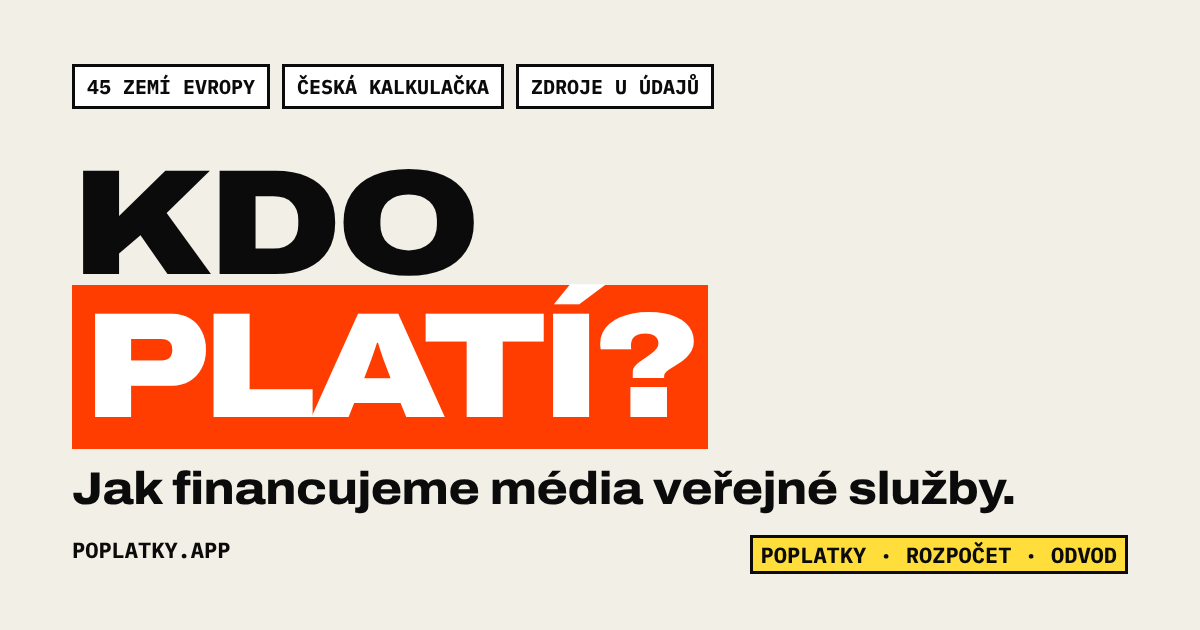
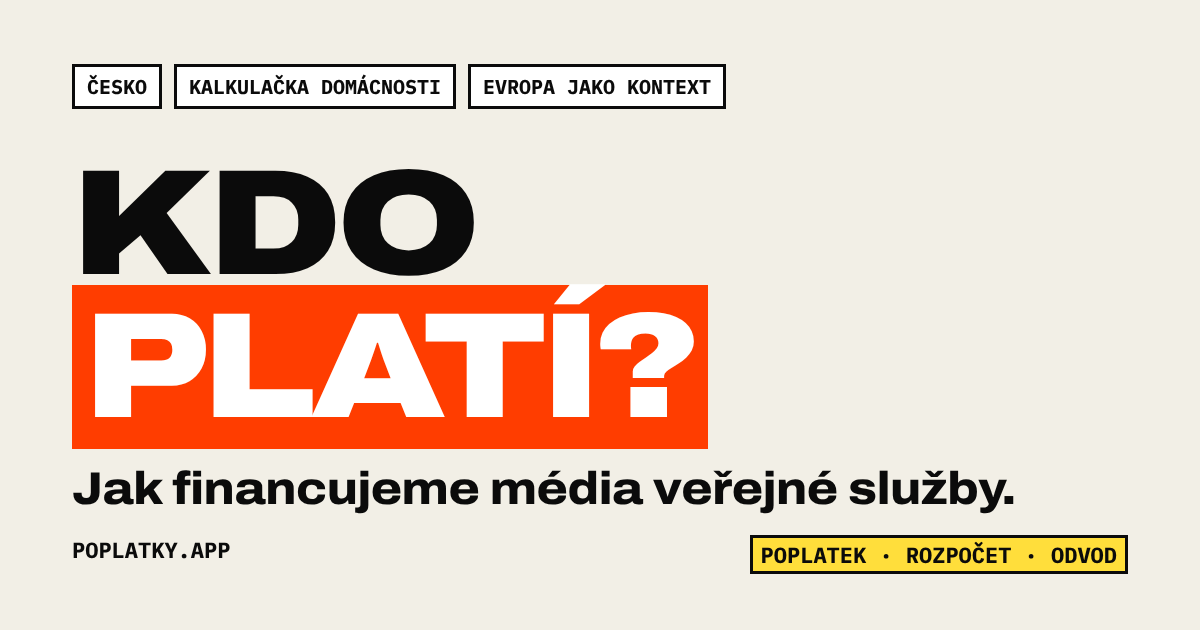
Premisa: úvod začíná českou otázkou, třetí vstup, Evropa jako kontext, propojení kapitol, O projektu a přiznání inspirace

Changed region(s): [[0.0617, 0.0905, 0.6167, 0.181], [0.6783, 0.8746, 0.74, 0.9048]]

diff --git a/index.html b/index.html
@@ -6,7 +6,7 @@
     <meta name="color-scheme" content="light" />
     <link rel="icon" href="data:," />
     <title>Kdo platí? Jak financujeme média veřejné služby</title>
-    <meta name="description" content="Od televizních poplatků po státní rozpočet. Prozkoumejte 45 evropských zemí, spočítejte si české alternativy a zjistěte, co jednotlivé modely znamenají pro nezávislost médií." />
+    <meta name="description" content="Co by se stalo, kdyby Česko zrušilo televizní a rozhlasové poplatky? Porovnejte alternativy, spočítejte dopad na vlastní domácnost, veřejné finance a nezávislost médií." />
     <link rel="canonical" href="https://poplatky.app/" />
     <meta name="robots" content="index, follow" />
     <meta name="author" content="Matesola" />
@@ -15,7 +15,7 @@
     <meta property="og:locale" content="cs_CZ" />
     <meta property="og:site_name" content="Kdo platí?" />
     <meta property="og:title" content="Kdo platí? Jak financujeme média veřejné služby" />
-    <meta property="og:description" content="Od televizních poplatků po státní rozpočet. Prozkoumejte 45 evropských zemí, spočítejte si české alternativy a zjistěte, co jednotlivé modely znamenají pro nezávislost médií." />
+    <meta property="og:description" content="Co by se stalo, kdyby Česko zrušilo televizní a rozhlasové poplatky? Porovnejte alternativy, spočítejte jejich dopad na vlastní domácnost a prozkoumejte, co znamenají pro veřejné finance a nezávislost médií. Podívejte se také, jak podobné otázky řeší Evropa." />
     <meta property="og:url" content="https://poplatky.app/" />
     <meta property="og:image" content="https://poplatky.app/og.png" />
     <meta property="og:image:width" content="1200" />
@@ -23,11 +23,11 @@
     <meta property="og:image:alt" content="Kdo platí? Jak financujeme média veřejné služby. 45 evropských zemí a česká kalkulačka." />
     <meta name="twitter:card" content="summary_large_image" />
     <meta name="twitter:title" content="Kdo platí? Jak financujeme média veřejné služby" />
-    <meta name="twitter:description" content="Od televizních poplatků po státní rozpočet. Prozkoumejte 45 evropských zemí, spočítejte si české alternativy a zjistěte, co jednotlivé modely znamenají pro nezávislost médií." />
+    <meta name="twitter:description" content="Co by se stalo, kdyby Česko zrušilo televizní a rozhlasové poplatky? Porovnejte alternativy, spočítejte jejich dopad na vlastní domácnost a prozkoumejte, co znamenají pro veřejné finance a nezávislost médií. Podívejte se také, jak podobné otázky řeší Evropa." />
     <meta name="twitter:image" content="https://poplatky.app/og.png" />
     <link rel="manifest" href="site.webmanifest" />
     <script>/* Výchozí je světlý režim; tmavý jen po výslovné volbě uživatele. */ try { if (localStorage.getItem("pzv-theme") === "dark") document.documentElement.setAttribute("data-theme", "dark"); } catch (e) {}</script>
-    <script type="application/ld+json">{"@context":"https://schema.org","@type":"WebSite","name":"Kdo platí?","alternateName":"Kdo platí? Jak financujeme média veřejné služby","url":"https://poplatky.app/","inLanguage":"cs","description":"Od televizních poplatků po státní rozpočet. Prozkoumejte 45 evropských zemí, spočítejte si české alternativy a zjistěte, co jednotlivé modely znamenají pro nezávislost médií.","author":{"@type":"Person","name":"Matesola"},"dateModified":"2026-10-26"}</script>
+    <script type="application/ld+json">{"@context":"https://schema.org","@type":"WebSite","name":"Kdo platí?","alternateName":"Kdo platí? Jak financujeme média veřejné služby","url":"https://poplatky.app/","inLanguage":"cs","description":"Co by se stalo, kdyby Česko zrušilo televizní a rozhlasové poplatky? Porovnejte alternativy, spočítejte jejich dopad na vlastní domácnost a prozkoumejte, co znamenají pro veřejné finance a nezávislost médií. Podívejte se také, jak podobné otázky řeší Evropa.","author":{"@type":"Person","name":"Matesola"},"dateModified":"2026-10-26"}</script>
     <link rel="preconnect" href="https://fonts.googleapis.com" />
     <link rel="preconnect" href="https://fonts.gstatic.com" crossorigin />
     <link href="https://fonts.googleapis.com/css2?family=Archivo:wdth,wght@100..125,400..900&family=IBM+Plex+Mono:wght@400;500;600;700&display=swap" rel="stylesheet" />
@@ -535,20 +535,33 @@
       @media (max-width: 520px) { .trust dl { grid-template-columns: 1fr; gap: 2px; } .trust dd { margin-bottom: 6px; } }
       .map-note { margin: 10px 0 0; max-width: 900px; }
       .stat-src { font: 600 11px "IBM Plex Mono", monospace; text-transform: uppercase; color: var(--ink); white-space: nowrap; display: inline-block; padding: 2px 0; }
+      /* Premisa: třetí vstup, evropský úvod, souvislosti, O projektu */
+      .path-cz { grid-column: 1 / -1; box-shadow: var(--sh-s); padding: 12px 18px; display: flex; flex-wrap: wrap; align-items: baseline; gap: 4px 16px; }
+      .path-cz .path-t { font-size: clamp(18px, 2vw, 22px); }
+      .path-cz .path-d { font-size: 14.5px; }
+      .eu-intro { border-left: 6px solid var(--line); padding: 4px 0 4px 16px; margin: 0 0 22px; max-width: 860px; }
+      .eu-intro p { margin: 0; font-size: 18px; line-height: 1.5; }
+      .eu-stats { margin: 0 0 28px; }
+      .ctx-link { font-size: 15px; line-height: 1.5; border: 2px dashed var(--line-soft); padding: 10px 14px; margin: 0 0 22px; max-width: 900px; }
+      .prose .ctx-link { margin-top: 6px; }
+      .about { border: var(--bw) solid var(--line); background: var(--card); padding: 16px 18px; margin: 0 0 22px; max-width: 900px; }
+      .about h3 { margin: 0 0 8px; font-weight: 900; font-stretch: 112%; font-size: 20px; text-transform: uppercase; }
+      .about p { margin: 0 0 10px; font-size: 15.5px; line-height: 1.55; }
+      @media (max-width: 700px) { .path-cz { display: grid; } }
     </style>
   </head>
   <body>
     <header class="hero">
       <div class="wrap">
         <div class="hero-meta">
-          <span>Přehled</span>
-          <span><span data-n-countries>45</span> zemí Evropy</span>
-          <span>Evropská data k <b>24. 10. 2026</b></span>
+          <span>Česko</span>
+          <span>Stav legislativy k <b><time datetime="2026-10-26" data-cfg="legalDateLabel">26. 10. 2026</time></b></span>
+          <span>Evropa jako kontext</span>
           <span>Zdroj u každého údaje</span>
         </div>
         <h1>Kdo <span class="hl">platí?</span></h1>
         <p class="hero-sub">Jak financujeme média veřejné služby.</p>
-        <p class="lede">Od televizních poplatků po státní rozpočet. Prozkoumejte <span data-n-countries>45</span> evropských zemí, spočítejte si české alternativy a zjistěte, co jednotlivé modely znamenají pro nezávislost médií.</p>
+        <p class="lede">Co by se stalo, kdyby Česko zrušilo televizní a rozhlasové poplatky? Porovnejte alternativy, spočítejte jejich dopad na vlastní domácnost a prozkoumejte, co znamenají pro veřejné finance a nezávislost médií. Podívejte se také, jak podobné otázky řeší Evropa.</p>
         <section class="now-cz" aria-labelledby="nowTitle">
           <div class="now-h"><h2 id="nowTitle">Aktuální Česko</h2><span class="now-date">ověřeno k <time datetime="2026-10-26" data-cfg="legalDateLabel">26. 10. 2026</time></span></div>
           <div class="now-grid">
@@ -565,17 +578,12 @@
         </section>
 
         <nav class="paths" aria-label="Hlavní cesty">
-          <a class="path path-me" href="#kalkulacka"><span class="path-k">Pro vaši domácnost</span><span class="path-t">Kolik bych platil já?</span><span class="path-d">Dnešní poplatek, financování z rozpočtu a odvod z příjmu. Stačí zadat příjmy.</span></a>
-          <a class="path path-eu" href="#mapa"><span class="path-k"><span data-n-countries>45</span> zemí</span><span class="path-t">Jak platí Evropa?</span><span class="path-d">Mapa modelů financování, částky a porovnání zemí.</span></a>
+          <a class="path path-me" href="#kalkulacka"><span class="path-k">Pro vaši domácnost</span><span class="path-t">Kolik bych platil já?</span><span class="path-d">Porovnejte současné poplatky s financováním ze státního rozpočtu a účelovým odvodem z příjmu.</span></a>
+          <a class="path path-eu" href="#mapa"><span class="path-k"><span data-n-countries>45</span> zemí</span><span class="path-t">Jak platí Evropa?</span><span class="path-d">Jaké modely používají jiné země a co se z jejich zkušeností můžeme naučit?</span></a>
+          <a class="path path-cz" href="#cele-cesko"><span class="path-t">Co by změna znamenala pro Česko?</span><span class="path-d">Kolik by odvod vybral, kdo by ho nesl, jak se modely vyvíjejí v čase a jaké pojistky nezávislosti mají.</span></a>
         </nav>
         <p class="paths-more"><a href="#cesko">Česko podrobně</a><a href="#pojistky">Nezávislost médií</a><a href="#zdroje">Metodika a zdroje</a></p>
 
-        <div class="stat-strip">
-          <div class="stat"><div class="num"><span>103</span> <em>let</em></div><div class="lbl">od zahájení pravidelného rozhlasového vysílání v Československu (Radiojournal, 18. 5. 1923) <a class="stat-src" href="#cesko">historie poplatku</a></div></div>
-          <div class="stat"><div class="num">€<span>363</span></div><div class="lbl">nejvyšší poplatek v Evropě: Švýcarsko, 335 CHF ročně za domácnost <a class="stat-src" href="https://merlin.obs.coe.int/article/10525" target="_blank" rel="noopener">zdroj</a></div></div>
-          <div class="stat"><div class="num"><span>17</span></div><div class="lbl">zemí z přehledu od roku 1999 zrušilo poplatek nebo jej převedlo na daň či rozpočet; žádná nezavedla nový přístrojový <a class="stat-src" href="#osa">časová osa</a></div></div>
-          <div class="stat"><div class="num"><span>2&nbsp;633</span></div><div class="lbl">hlasů dělilo zachování a zrušení poplatku ve slovinském referendu 11. 10. 2026 (neoficiálně, včetně hlasů ze zahraničí; úřední potvrzení do 30. 10.) <a class="stat-src" href="https://www.rtvslo.si/slovenija/referendumi-2026/po-prestetih-glasovnicah-iz-tujine-se-izidi-referendumov-niso-spremenili/797428" target="_blank" rel="noopener">RTV SLO</a></div></div>
-        </div>
 
       </div>
     </header>
@@ -865,6 +873,15 @@
               <p class="sub">Platba je navázaná na domácnost, na přístroj, na účet za elektřinu, na daň z příjmu nebo na nákup přijímače. Ve 26 zemích ze 45 samostatná platba není a vysílání financuje rozpočet. Najeďte nebo ťukněte na zemi pro detail.</p>
             </div>
           </div>
+          <div class="eu-intro">
+            <p>Evropa nemá jeden správný model financování médií veřejné služby. Jednotlivé země používají poplatky, daně, státní rozpočty i kombinovaná řešení. Tento přehled slouží jako kontext pro českou debatu, nikoli jako žebříček nejlepších systémů.</p>
+          </div>
+          <div class="stat-strip eu-stats">
+            <div class="stat"><div class="num"><span>103</span> <em>let</em></div><div class="lbl">od zahájení pravidelného rozhlasového vysílání v Československu (Radiojournal, 18. 5. 1923) <a class="stat-src" href="#cesko">historie poplatku</a></div></div>
+            <div class="stat"><div class="num">€<span>363</span></div><div class="lbl">nejvyšší poplatek v Evropě: Švýcarsko, 335 CHF ročně za domácnost <a class="stat-src" href="https://merlin.obs.coe.int/article/10525" target="_blank" rel="noopener">zdroj</a></div></div>
+            <div class="stat"><div class="num"><span>17</span></div><div class="lbl">zemí z přehledu od roku 1999 zrušilo poplatek nebo jej převedlo na daň či rozpočet; žádná nezavedla nový přístrojový <a class="stat-src" href="#osa">časová osa</a></div></div>
+            <div class="stat"><div class="num"><span>2&nbsp;633</span></div><div class="lbl">hlasů dělilo zachování a zrušení poplatku ve slovinském referendu 11. 10. 2026 (neoficiálně, včetně hlasů ze zahraničí; úřední potvrzení do 30. 10.) <a class="stat-src" href="https://www.rtvslo.si/slovenija/referendumi-2026/po-prestetih-glasovnicah-iz-tujine-se-izidi-referendumov-niso-spremenili/797428" target="_blank" rel="noopener">RTV SLO</a></div></div>
+          </div>
 
           <div class="map-tools">
             <div class="seg" role="group" aria-label="Režim mapy">
@@ -888,6 +905,7 @@
           <div class="prose reveal" style="margin-top:34px">
             <p><b>Elektřina.</b> Poplatek na účtu za elektřinu je běžný v jižní Evropě a na Balkáně (Itálie, Řecko, Portugalsko, Srbsko, Bosna, Albánie). Zaváděl se tam, kde se klasická licence ve velkém neplatila. Itálie po přesunu v roce 2016 snížila úniky z odhadovaných 30 % na jednotky procent.</p>
             <p><b>Daň.</b> Finsko (2013), Švédsko (2019) a Island (2009) poplatek nahradily účelovou daní z příjmu, která se vybírá odděleně a jde jen vysílateli. Dánsko a Norsko poplatek zrušily a financují vysílání z obecných daní bez samostatné položky.</p>
+            <p class="ctx-link"><b>Souvislost s Českem:</b> účelový odvod z příjmu podle finského a švédského vzoru je model C v <a href="#kalkulacka">kalkulačce</a>; kolik by vybral a kdo by ho nesl, ukazuje <a href="#cele-cesko">celostátní model</a>. Financování z rozpočtu jako v Dánsku či Norsku navrhuje tisk 231; jaké pojistky nezávislosti takový model má a jaké ne, srovnává kapitola <a href="#pojistky">Nezávislost a pojistky</a>.</p>
             <p><b>Přístroj.</b> Od roku 1999 žádná země v přehledu nezavedla nový poplatek za přístroj. Turecko vybírá <i>bandrol</i>: daň 16 % z ceny televize nebo rádia, placenou jednou při nákupu.</p>
           </div>
         </div>
@@ -902,6 +920,7 @@
               <p class="sub">Roční platba přepočtená na eura referenčními kurzy ECB k 23. 10. 2026. Ve Švédsku, Finsku a na Islandu se platí za osobu, dvoučlenná domácnost tedy platí až dvojnásobek stropu. Česko s 2 460 Kč (asi 101 €) je pod průměrem zbývajících poplatků, který EBU uvádí kolem 116 € ročně.</p>
             </div>
           </div>
+          <p class="ctx-link reveal"><b>Souvislost s Českem:</b> paušální poplatek je pro všechny domácnosti stejný, takže jeho podíl na příjmu je u nižších příjmů vyšší. Jak by se zatížení českých domácností podle příjmu změnilo u rozpočtového modelu a účelového odvodu, ukazují <a href="#kdoKolik">grafy A a B</a> a <a href="#simulator">rozdělení podle decilů</a>. Podíl poplatku na mediánovém příjmu v Evropě ukazuje <a href="#mapa">mapa v pohledu Zátěž</a>.</p>
           <div class="chart-tools reveal">
             <div class="seg" role="group" aria-label="Řazení žebříčku">
               <button id="sortDesc" aria-pressed="true">Od nejdražšího</button>
@@ -1053,6 +1072,7 @@
               <p class="sub">Každý bod je rok, ve kterém aspoň jedna země poplatek zrušila, převedla na daň, nebo zásadně přestavěla; větší bod znamená víc změn v jednom roce. Klikněte na rok, posuňte posuvník nebo osu přehrajte. Česko 2025 je jediný červený bod: poplatek se tam nezrušil, ale zvýšil.</p>
             </div>
           </div>
+          <p class="ctx-link reveal"><b>Souvislost s Českem:</b> které prvky zahraničních přechodů na jiný model by se daly použít v Česku, rozebírá blok <a href="#inspirace">Co si vzít z Evropy</a>; kde je český návrh dnes, ukazuje <a href="#legislativa">stav legislativy</a>.</p>
           <div class="card tl-wrap reveal">
             <div class="tl-grid">
               <div>
@@ -1272,6 +1292,11 @@
               <h2>Zdroje, metoda, neověřené údaje</h2>
               <p class="sub">Každá částka má zdroj, přednostně primární: zákon, oficiální stránku vysílatele, regulátora nebo výběrčího. Kde jde o sekundární zpravodajství, je to u země uvedeno. Níže je seznam údajů, které se k 24. 10. 2026 nepodařilo ověřit.</p>
             </div>
+          </div>
+          <div class="about" id="o-projektu">
+            <h3>O projektu</h3>
+            <p>Kdo platí? zkoumá různé způsoby financování českých médií veřejné služby: jejich dopady na domácnosti a stát, rozložení zátěže, dlouhodobou udržitelnost a institucionální nezávislost. Evropská data slouží jako kontext a zdroj zkušeností pro českou debatu.</p>
+            <p>Impulsem ke vzniku projektu byl mimo jiné web <a href="https://poplatkyvevrope.cz/" target="_blank" rel="noopener">poplatkyvevrope.cz</a>, který přehledně mapuje způsoby financování médií veřejné služby v evropských zemích. Kdo platí? na toto téma navazuje vlastní analýzou českých alternativ, výpočty dopadů na domácnosti, modelováním veřejných příjmů a zkoumáním pojistek nezávislosti médií.</p>
           </div>
           <details class="lab-block method method-z" id="metodika">
             <summary><span class="lab-n">§</span> Metodika, předpoklady a zdroje výpočtů</summary>
@@ -2315,7 +2340,7 @@
         + '<div class="fact"><div class="k">Kdo dostává</div><div class="v">' + esc(c.bc) + '</div></div>'
         + '</div>'
         + (c.model === "bud" ? '<p class="small" style="margin:-6px 0 14px">Bez samostatné platby neznamená bez nákladů: vysílání platí státní rozpočet z daní. Veřejné výdaje na obyvatele srovnává kapitola 06.</p>' : '')
-        + compareCZ(c)
+        + compareCZ(c) + ctxDialog(c)
         + '<p style="font-size:15.5px;margin:0">' + esc(c.note) + '</p>'
         + '<ul>' + facts + '</ul>'
         + trustBlock(c);
@@ -2329,7 +2354,20 @@
         document.body.classList.add("lock");
       }
       $("dlgClose").addEventListener("click", function(){ dlg.close(); });
+      $("dlgIn").querySelectorAll("[data-go]").forEach(function(a){ a.addEventListener("click", function(){ dlg.close(); }); });
       try { history.replaceState(null, "", "#zeme-" + iso); } catch (e) {}
+    }
+    /* Souvislost s českou debatou podle modelu; odkazy jen na existující obsah, bez tvrzení o příčinách. */
+    function ctxDialog(c){
+      if (c.iso === "CZ") return "";
+      var L = {
+        tax: 'Účelový odvod z příjmu je v české kalkulačce model C: <a href="#kalkulacka" data-go>kolik by platila vaše domácnost</a> a <a href="#cele-cesko" data-go>kolik by vybral celostátně</a>.',
+        bud: 'Financování z rozpočtu navrhuje i český tisk 231. <a href="#pojistky" data-go>Jaké pojistky nezávislosti má a jaké chybí</a>, srovnává kapitola 07.',
+        dom: 'Paušální poplatek za domácnost platí i Česko. <a href="#kdoKolik" data-go>Jak se zatížení českých domácností liší podle příjmu</a> v jednotlivých modelech.',
+        dev: 'I český poplatek je podle zákona vázaný na zařízení schopné příjmu, platí se ale jednou za domácnost. <a href="#kdoKolik" data-go>Jak se zatížení domácností liší podle příjmu</a> v českých modelech.',
+        ele: 'Česká kalkulačka srovnává paušální poplatek s dalšími modely: <a href="#kdoKolik" data-go>zatížení domácností podle příjmu</a>.'
+      }[c.model];
+      return L ? '<p class="ctx-link" style="margin:14px 0 0"><b>Souvislost s Českem:</b> ' + L + '</p>' : "";
     }
     function compareCZ(c){
       if (c.iso === "CZ" || c.eur === null) return "";

diff --git a/tests/e2e.js b/tests/e2e.js
@@ -327,10 +327,11 @@ const kc = (s) => Number(String(s).replace(/[^\d-]/g, ""));
       const sub = (await p.textContent(".hero-sub")).trim(), lede = (await p.textContent(".hero .lede")).replace(/\s+/g, " ").trim();
       assert(h1 === "Kdo platí?", "H1: " + h1);
       assert(sub === "Jak financujeme média veřejné služby.", "podtitulek: " + sub);
-      assert(lede === "Od televizních poplatků po státní rozpočet. Prozkoumejte 45 evropských zemí, spočítejte si české alternativy a zjistěte, co jednotlivé modely znamenají pro nezávislost médií.", "perex: " + lede);
+      assert(lede === "Co by se stalo, kdyby Česko zrušilo televizní a rozhlasové poplatky? Porovnejte alternativy, spočítejte jejich dopad na vlastní domácnost a prozkoumejte, co znamenají pro veřejné finance a nezávislost médií. Podívejte se také, jak podobné otázky řeší Evropa.", "perex: " + lede);
+      assert(!/\d/.test(lede), "perex bez počtu zemí");
       assert((await p.$$("h1")).length === 1, "jediné H1");
       const go = await p.$$eval(".paths .path-t, .paths-more a", (as) => as.map((a) => a.textContent.trim() + ">" + (a.closest("a") || a).getAttribute("href")));
-      assert(go.join("|") === "Kolik bych platil já?>#kalkulacka|Jak platí Evropa?>#mapa|Česko podrobně>#cesko|Nezávislost médií>#pojistky|Metodika a zdroje>#zdroje", go.join("|"));
+      assert(go.join("|") === "Kolik bych platil já?>#kalkulacka|Jak platí Evropa?>#mapa|Co by změna znamenala pro Česko?>#cele-cesko|Česko podrobně>#cesko|Nezávislost médií>#pojistky|Metodika a zdroje>#zdroje", go.join("|"));
       for (const g of go) assert(await p.$(g.split(">")[1]), "cíl " + g);
       await c.close();
     }
@@ -343,7 +344,7 @@ const kc = (s) => Number(String(s).replace(/[^\d-]/g, ""));
     assert(m.title === "Kdo platí? Jak financujeme média veřejné služby", m.title);
     assert(m.canon === "https://poplatky.app/" && m.ogu === "https://poplatky.app/", "canonical " + m.canon);
     assert(m.site === "Kdo platí?" && m.ogt === m.title && m.twt === m.title && m.tw === "summary_large_image", "OG/Twitter");
-    assert(m.desc.startsWith("Od televizních poplatků") && m.ogd === m.desc, "description");
+    assert(m.desc.startsWith("Co by se stalo, kdyby Česko zrušilo") && m.ogd.startsWith(m.desc.slice(0, 60)), "description");
     assert(m.ogi === "https://poplatky.app/og.png", "og:image");
     const ld = JSON.parse(m.ld); assert(ld.name === "Kdo platí?" && ld.url === "https://poplatky.app/" && ld["@type"] === "WebSite", "JSON-LD");
     const head = (await (await fetch(base)).text()).slice(0, 6000); assert(!/Poplatky za vysílání v Evropě/.test(head), "starý název v hlavičce");
@@ -520,6 +521,40 @@ const kc = (s) => Number(String(s).replace(/[^\d-]/g, ""));
     await p.focus(".path-me"); await p.keyboard.press("Tab"); await p.keyboard.press("Shift+Tab");
     const o = await p.$eval(".path-me", (e) => getComputedStyle(e).outlineStyle + " " + getComputedStyle(e).outlineWidth);
     assert(/solid 3px/.test(o), o);
+    await c.close();
+  });
+
+  /* ================= Premisa (větev premisa) ================= */
+  await t("premisa: hero bez evropských čísel, statistiky až v evropské kapitole", async () => {
+    const c = await browser.newContext(); const p = await c.newPage(); await p.goto(base);
+    assert(!(await p.$("header.hero .stat-strip")), "statistiky v úvodu");
+    assert(await p.$("#mapa .eu-stats"), "statistiky v kapitole Mapa");
+    const intro = (await p.innerText("#mapa .eu-intro")).replace(/\s+/g, " ").trim();
+    assert(intro === "Evropa nemá jeden správný model financování médií veřejné služby. Jednotlivé země používají poplatky, daně, státní rozpočty i kombinovaná řešení. Tento přehled slouží jako kontext pro českou debatu, nikoli jako žebříček nejlepších systémů.", intro);
+    const order = await p.evaluate(() => { const a = document.querySelector("#mapa .eu-intro"), b = document.querySelector("#mapSvg"); return !!(a.compareDocumentPosition(b) & Node.DOCUMENT_POSITION_FOLLOWING); });
+    assert(order, "úvod před mapou");
+    await c.close();
+  });
+  await t("premisa: přiznání inspirace s funkčním odkazem, bez tvrzení o partnerství", async () => {
+    const c = await browser.newContext({ javaScriptEnabled: false }); const p = await c.newPage(); await p.goto(base);
+    const a = await p.$('#o-projektu a[href="https://poplatkyvevrope.cz/"]'); assert(a, "odkaz");
+    const tx = (await p.innerText("#o-projektu")).replace(/\s+/g, " ");
+    assert(/Impulsem ke vzniku projektu byl mimo jiné web poplatkyvevrope\.cz/.test(tx), "znění");
+    assert(!/partner|spolupr|ve spolupráci|oficiál/i.test(tx), "nesmí sugerovat partnerství");
+    await c.close();
+  });
+  await t("premisa: všechny odkazy Souvislost s Českem míří na existující obsah", async () => {
+    const c = await browser.newContext(); const p = await c.newPage(); await p.goto(base);
+    const hrefs = await p.$$eval(".ctx-link a", (as) => as.map((a) => a.getAttribute("href")));
+    assert(hrefs.length >= 8, "odkazů " + hrefs.length);
+    for (const h of hrefs) assert(await p.$(h), "chybí cíl " + h);
+    for (const iso of ["FI", "SK", "DE", "GB", "IT"]) {
+      await p.evaluate((i) => window.openCountry(i), iso); await p.waitForTimeout(80);
+      const l = await p.$$eval("#dlgIn .ctx-link a", (as) => as.map((a) => a.getAttribute("href")));
+      assert(l.length >= 1, iso + " bez souvislosti"); for (const h of l) assert(await p.$(h), iso + " cíl " + h);
+    }
+    await p.click('#dlgIn .ctx-link a'); await p.waitForTimeout(300);
+    assert(!(await p.$eval("#detail", (d) => d.open)), "dialog se po kliknutí zavře");
     await c.close();
   });
 

diff --git a/tests/share.test.js b/tests/share.test.js
@@ -111,7 +111,7 @@ function countries() {
 test("HTML: počet zemí v textech (data-n-countries) = délka datové sady", () => {
   const n = countries().COUNTRIES.length;
   const vals = [...html.matchAll(/data-n-countries>(\d+)</g)].map((m) => +m[1]);
-  assert.ok(vals.length >= 4); vals.forEach((v) => assert.equal(v, n));
+  assert.ok(vals.length >= 3); vals.forEach((v) => assert.equal(v, n));
   assert.ok(html.includes("Prozkoumejte 45 evropských zemí") ? n === 45 : true, "metadata uvádějí 45");
 });
 test("HTML: roční poplatek v bloku Aktuální Česko = (150 + 55) × 12 z params", () => {

diff --git a/PREMISA-REPORT.md b/PREMISA-REPORT.md
@@ -1,0 +1,76 @@
+# Premisa a autorská identita: report
+
+Větev `premisa` (z `main` f09f29e). Produkce nezměněna.
+
+## Výchozí stav
+
+| Požadavek | Před úpravou |
+|---|---|
+| Hero začíná českou otázkou | ne: perex začínal „Prozkoumejte 45 evropských zemí“ a pod úvodem byla čtyři čísla, z toho tři evropská |
+| Dvě vstupní cesty | ano, popisy zdůrazňovaly mapu a částky |
+| Vstup do celostátních důsledků | jen jako vedlejší odkaz |
+| Evropská kapitola jako kontext | bez redakčního vymezení |
+| Propojení Evropa → české scénáře | jen odkaz na srovnání veřejných výdajů (kapitola 06) |
+| Přiznání inspirace | **chybělo úplně** |
+
+## Provedené změny
+
+1. **Hero:** nový popis v přesném znění zadání, bez počtu zemí. Štítky nad nadpisem: Česko, stav legislativy k 26. 10. 2026, Evropa jako kontext, zdroj u každého údaje. Čtyři úvodní čísla (103 let, €363, 17 zemí, 2 633 hlasů) jsou nově na začátku evropské kapitoly 03, ne v úvodu.
+2. **Metadata:** description, Open Graph, Twitter a JSON-LD nesou nový popis; náhled `og.png` má štítky Česko, Kalkulačka domácnosti, Evropa jako kontext.
+3. **Vstupy:** „Kolik bych platil já?“ a „Jak platí Evropa?“ s novými popisy; třetí, méně výrazný vstup „Co by změna znamenala pro Česko?“ vede na existující kapitolu 10 (`#cele-cesko`), žádná nová sekce nevznikla.
+4. **Evropská kapitola:** redakční úvod v přesném znění zadání nad mapou. Mapa, data, žebříčky a detaily zemí beze změny.
+5. **Propojení kapitol** (odkazy jen na existující obsah, bez tvrzení o příčinách):
+   - kapitola 03, odstavec Daň: Finsko a Švédsko → model C v kalkulačce a celostátní model; rozpočtové financování → kapitola 07 Nezávislost a pojistky,
+   - kapitola 04 Částky: paušální poplatek a podíl na příjmu → grafy A a B, decily, mapa v pohledu Zátěž,
+   - kapitola 08 Časová osa: přechody mezi modely → Co si vzít z Evropy, stav legislativy,
+   - detail země podle modelu: daň na osobu → kalkulačka a celostátní model; rozpočet → pojistky; poplatek → zatížení podle příjmu.
+6. **O projektu** v kapitole Zdroje: premisa projektu a přiznání inspirace v navrženém znění s odkazem na poplatkyvevrope.cz. Bez tvrzení o spolupráci a bez tvrzení o původu dat.
+
+## Audit shod s poplatkyvevrope.cz (26. 10. 2026)
+
+Metoda: stažena úvodní stránka, O projektu, Ke stažení, Příběh, Pojistky, Ochrana údajů a všech 46 stránek zemí (52 stránek). Každá věta webu Kdo platí? (včetně dat zemí, textů kapitoly 04 a parametrů) porovnána s celým korpusem podle shodných úseků 7 slov.
+
+**Výsledek: 12 vět se shodou, žádná delší než jedna věta.** Všechny jsou faktické údaje, názvy předpisů nebo standardní formulace:
+
+| Kdo platí? | poplatkyvevrope.cz | Posouzení |
+|---|---|---|
+| „Senát může návrh schválit, zamítnout nebo vrátit s pozměňovacími návrhy.“ (chronologie tisku 231) | „Senát může návrh schválit, zamítnout, nebo vrátit s pozměňovacími návrhy.“ (úvodní stránka) | standardní popis ústavního postupu |
+| „a financování ČT a ČRo ze státního rozpočtu (sněmovní tisk 231)“ | obdobně na stránce Česko | věcný popis návrhu |
+| zákonná definice osvobození (slepota, hluchota, 2,15násobek životního minima) | Česko | citace zákona |
+| „Čeká druhé a třetí čtení, Senát a podpis prezidenta.“ | obdobně na úvodní stránce | výčet zbývajících kroků |
+| Litva: „1 % výnosu daně z příjmu fyzických osob a 1,3 % spotřebních daní“ | Litva: „podíl na výnosu daně z příjmu fyzických osob a spotřebních daní“ | fakt ze zákona |
+| Lichtenštejnsko: zrušení zákona o LRF referendem | Lichtenštejnsko: zákon o LRF (LRFG) zrušen | fakt |
+| Lucembursko: veřejnou službu plní RTL na základě smlouvy se státem | „lucemburské programy zajišťuje RTL na základě smlouvy se státem“ | fakt, podobná formulace jedné vedlejší věty |
+| Finsko: strop daně a práh | Finsko | čísla ze zákona |
+| Ukrajina: zákonné minimum 0,2 % výdajů | Ukrajina | fakt ze zákona |
+| Švédsko, Finsko, Island: platí se za osobu | O projektu | metodická poznámka, obecná |
+| názvy předpisů (zák. č. 348/2005 Sb., nařízení (EU) 2024/1083) | různé | názvy předpisů |
+
+**Strukturní a koncepční podobnosti** (nejde o text, ale jsou nápadné a je fér je znát):
+
+- shodný datový řez „stav k 24. 10. 2026“ a kurz ECB k 23. 10. 2026,
+- mapa z Natural Earth 1:50m, Kosovo samostatně, Krym jako součást Ukrajiny (oba weby; u nich Lambertova, u nás kuželová projekce),
+- písmo Archivo,
+- název „Kdo platí?“ a jejich titulek „Kdo v Evropě platí za televizi a rozhlas“,
+- blok „Česko teď“ s 2 460 Kč ročně a kroky legislativního procesu (u nás „Aktuální Česko“ a stav legislativy),
+- pojem „pojistky nezávislosti“ (u nich samostatná stránka po zemích, u nás srovnání tří českých modelů),
+- přepočet poplatku na příjem (u nich průměrná čistá mzda OECD, u nás medián ekvivalizovaného příjmu EU-SILC).
+
+**Odlišnosti:** jiný počet zemí (jejich 46 = našich 45 a navíc Rusko; seznamy se jinak shodují), jiná klasifikace modelů (u nich domácnost 8, elektřina 5, účelová daň 4, rozpočet 26, kombinovaný 2, bez platby 1; u nás domácnost 6, přístroj 3, elektřina 6, daň 3, rozpočet 26, nákup 1), vlastní česká kalkulačka, fiskální model, projekce, pojistky tří modelů a legislativní analýza, které inspirační web nemá.
+
+**Data a licence:** poplatkyvevrope.cz zveřejňuje data (CSV, JSON) pod licencí CC BY 4.0 s podmínkou uvést zdroj „poplatkyvevrope.cz“ s odkazem. Zda evropská data tohoto webu vycházejí z jejich datové sady, z repozitáře ověřit nejde: první verze stránky vznikla z HTML souboru, jehož původ v repozitáři zaznamenaný není. Pokud z ní vycházejí, je odkaz v O projektu dobrý základ, ale licence vyžaduje i výslovné uvedení zdroje dat (například v kapitole Zdroje: „Část evropských údajů vychází z poplatkyvevrope.cz, CC BY 4.0“). To jsem bez ověření nedoplnil, protože zadání zakazuje tvrzení o původu dat, která nejsou ověřená. **Rozhodnutí je na autorovi.**
+
+Právní posouzení: neprovádím. Textové shody jsou na úrovni faktů a jednotlivých formulací; koncepční podobnosti jsou otázkou inspirace, ne převzetí textu.
+
+## Testy
+
+| Sada | Výsledek |
+|---|---|
+| `tsc --checkJs` | 0 chyb |
+| `npm test` | 68/68 |
+| `npm run e2e` (Chromium, desktop a mobil 320 až 1440 px) | 95/95 (3 nové: premisa v úvodu, přiznání inspirace, cíle odkazů Souvislost s Českem) |
+| `tests/regression-data.js` | 0 změn dat |
+
+## Neměněno
+
+Název, design system, výpočetní jádro, datové sady, česká chronologie, celostátní simulace, typy grafů, URL a kotvy, rozlišení fakt / návrh / model / autorský návrh.

diff --git a/README.md b/README.md
@@ -1,6 +1,6 @@
 # Kdo platí? Jak financujeme média veřejné služby
 
-Statický web bez buildu: jak se v Evropě financují média veřejné služby (45 zemí) a co by jednotlivé modely znamenaly pro českou domácnost. Stav legislativy ověřen k 26. 10. 2026.
+Statický web bez buildu: jak by se mohla financovat česká média veřejné služby, co by alternativy k poplatkům znamenaly pro domácnosti, veřejné finance a nezávislost médií, a jak podobné otázky řeší 45 evropských zemí. Impulsem ke vzniku byl mimo jiné web poplatkyvevrope.cz. Stav legislativy ověřen k 26. 10. 2026.
 
 Pořadí kapitol: úvod s blokem „Aktuální Česko“ a dvěma hlavními cestami, 01 kalkulačka, 02 Česko (stav legislativy a chronologie), 03 mapa a modely, 04 částky, 05 země a porovnání, 06 na obyvatele, 07 nezávislost a pojistky, 08 časová osa, 09 referenda a soudy, 10 pokročilé modelování, zdroje a metodika. Všechny dřívější kotvy (`#kalkulacka`, `#simulator`, `#metodika`, `#zeme-CZ` …) zůstaly.
 
